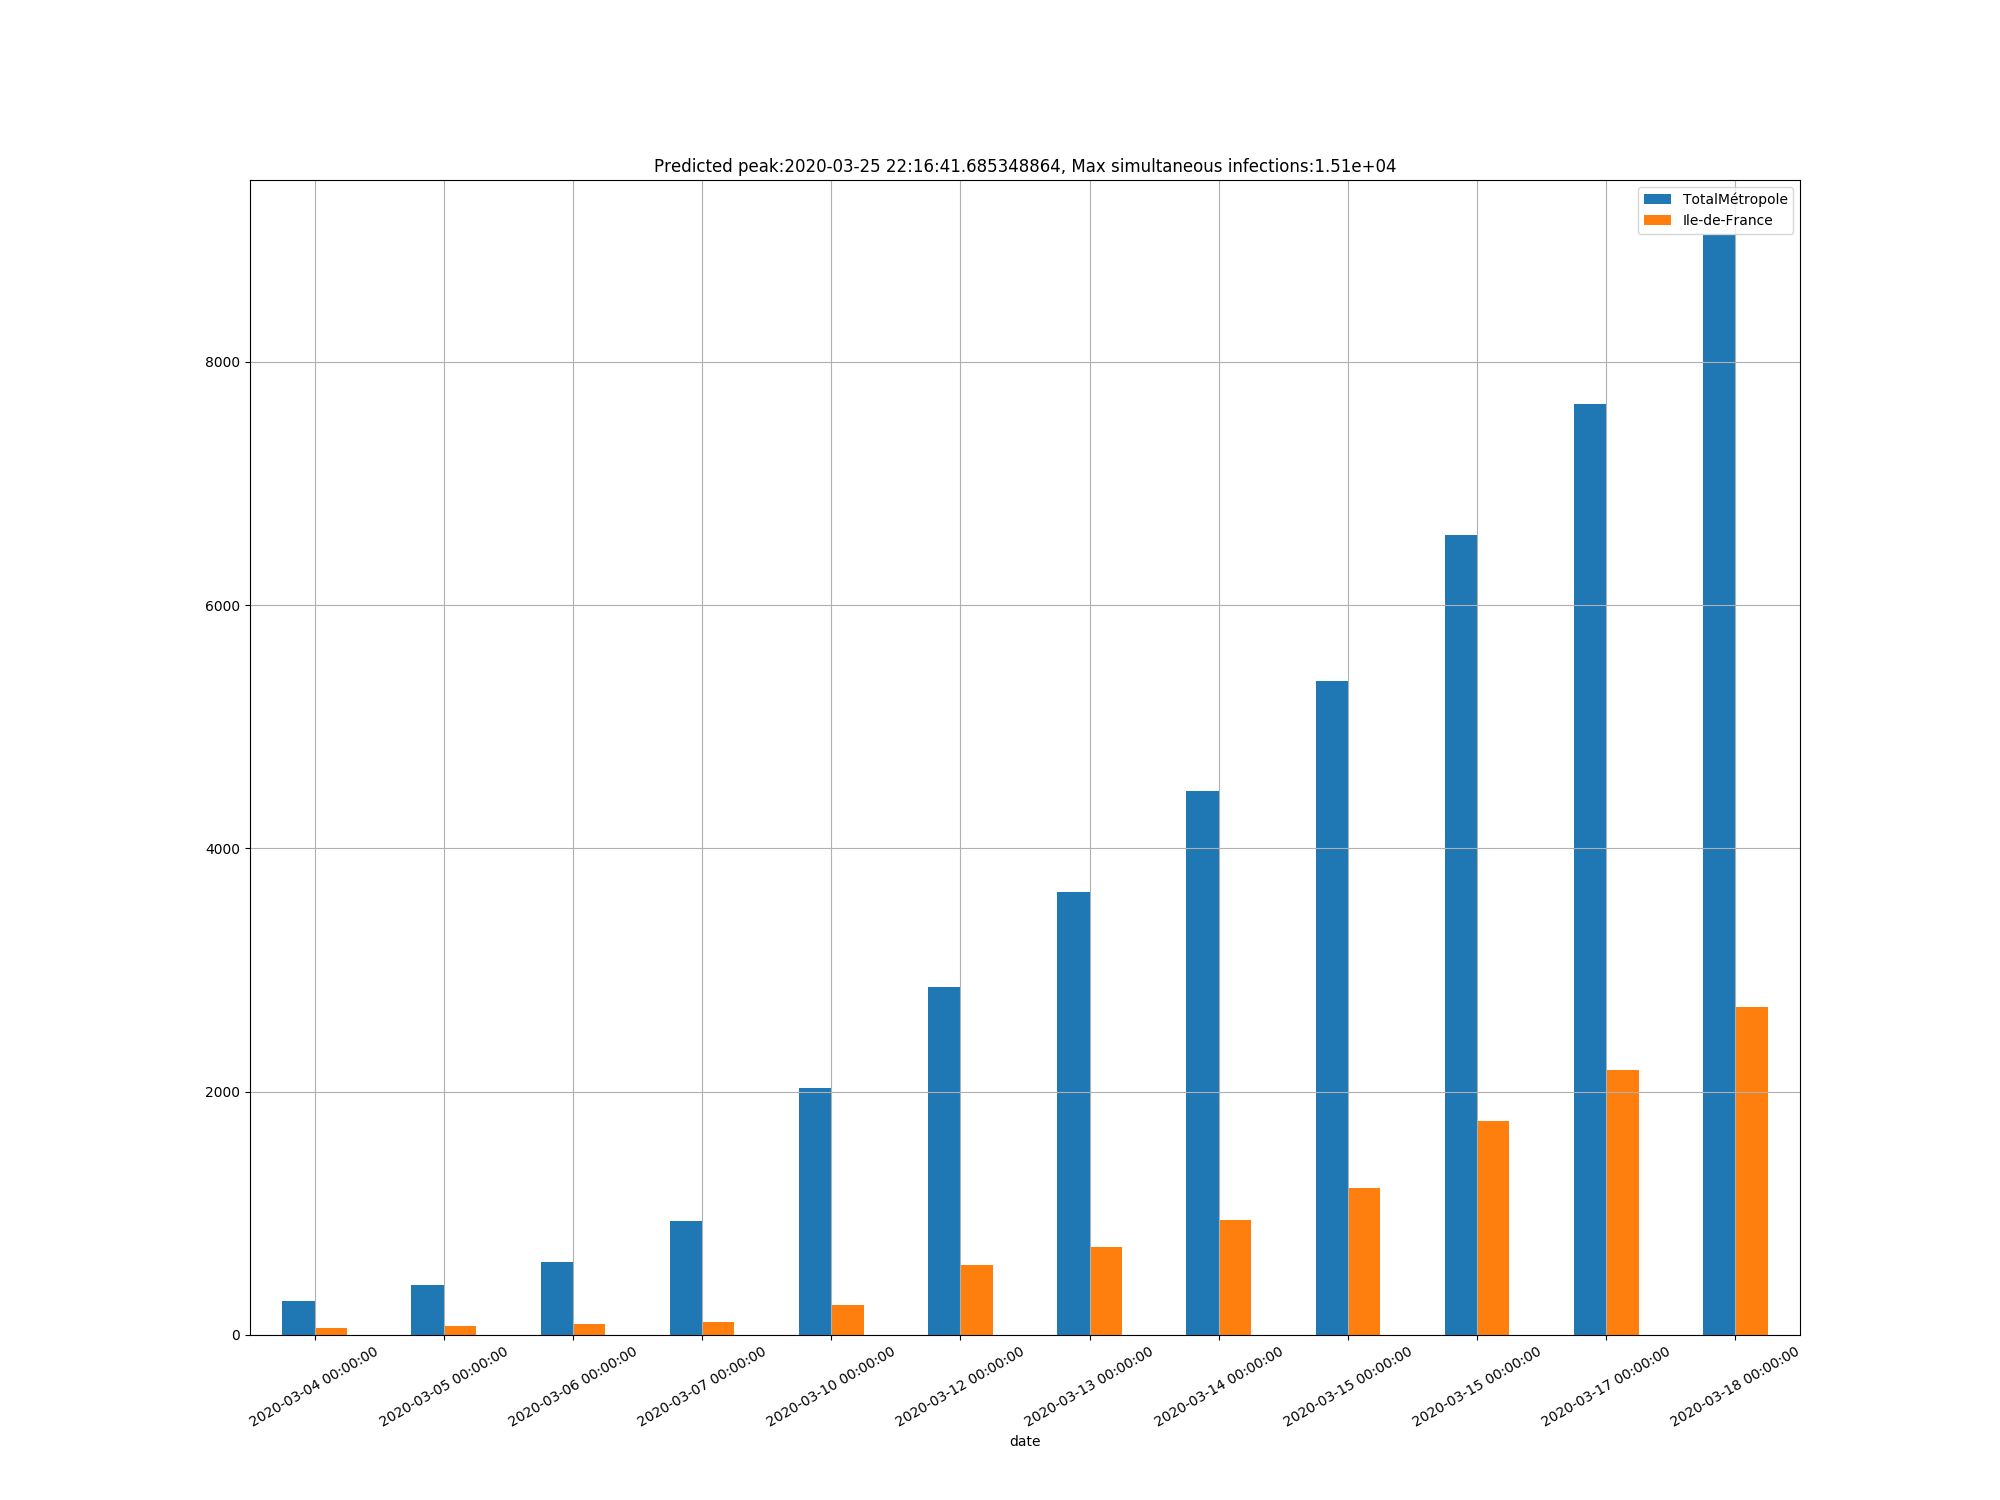
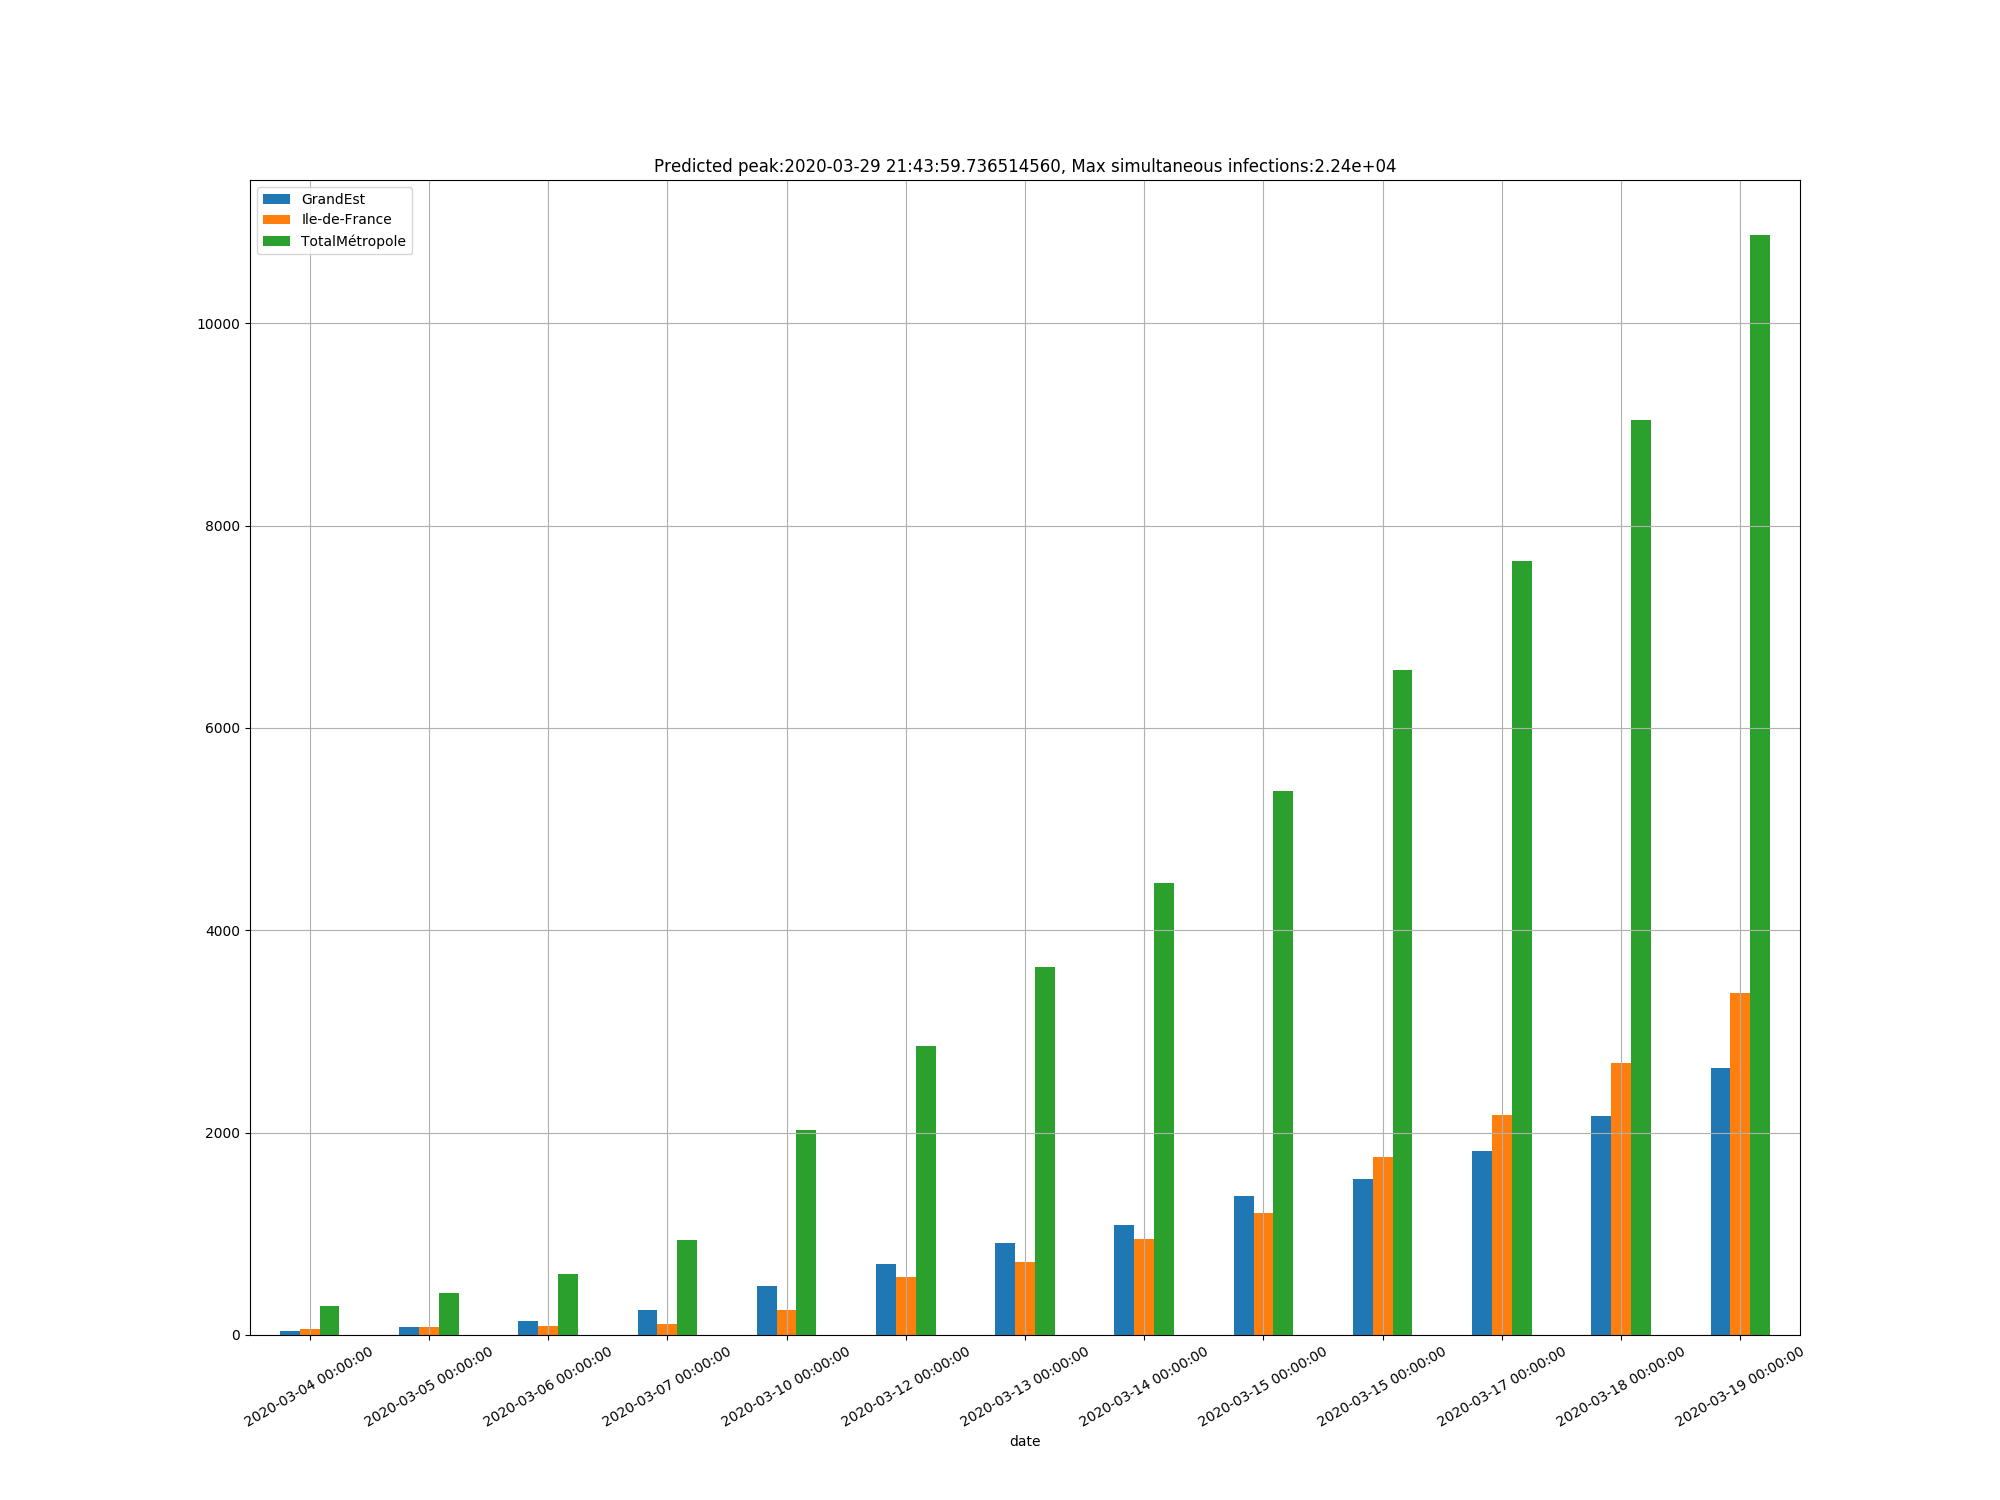
20200319

diff --git a/france_regional.py b/france_regional.py
@@ -167,7 +167,7 @@ title = 'Predicted peak:' + \
 # fig, ax = plt.subplots()
 cumulative_data.plot(
     x='date',
-    y={'Ile-de-France', 'TotalMétropole'},
+    y={'GrandEst', 'Ile-de-France', 'TotalMétropole'},
     kind='bar',
     # ax=ax,
     rot=30,
